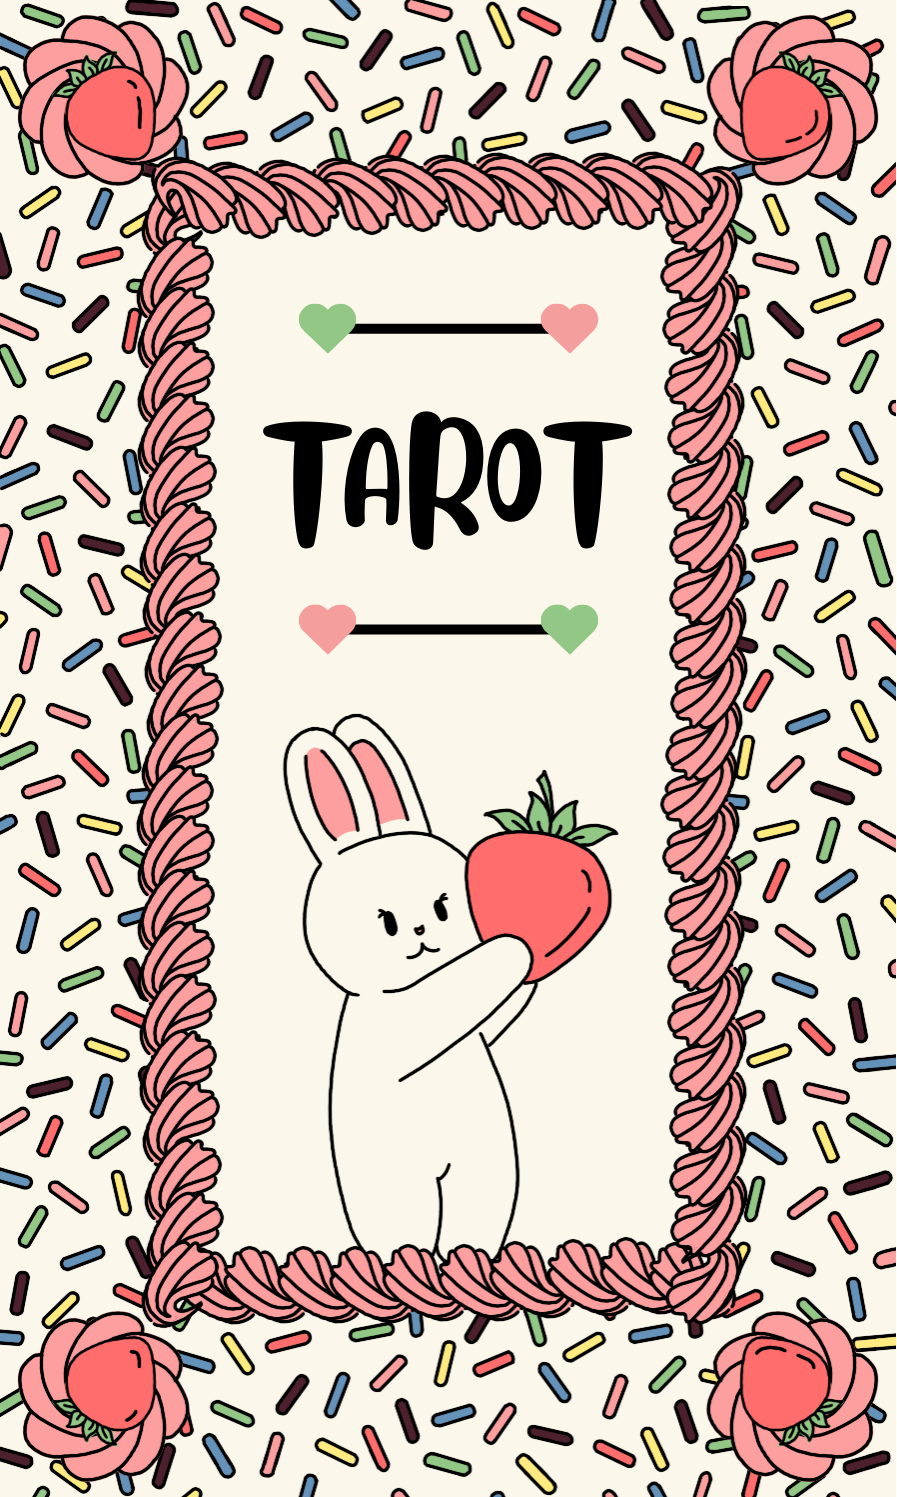
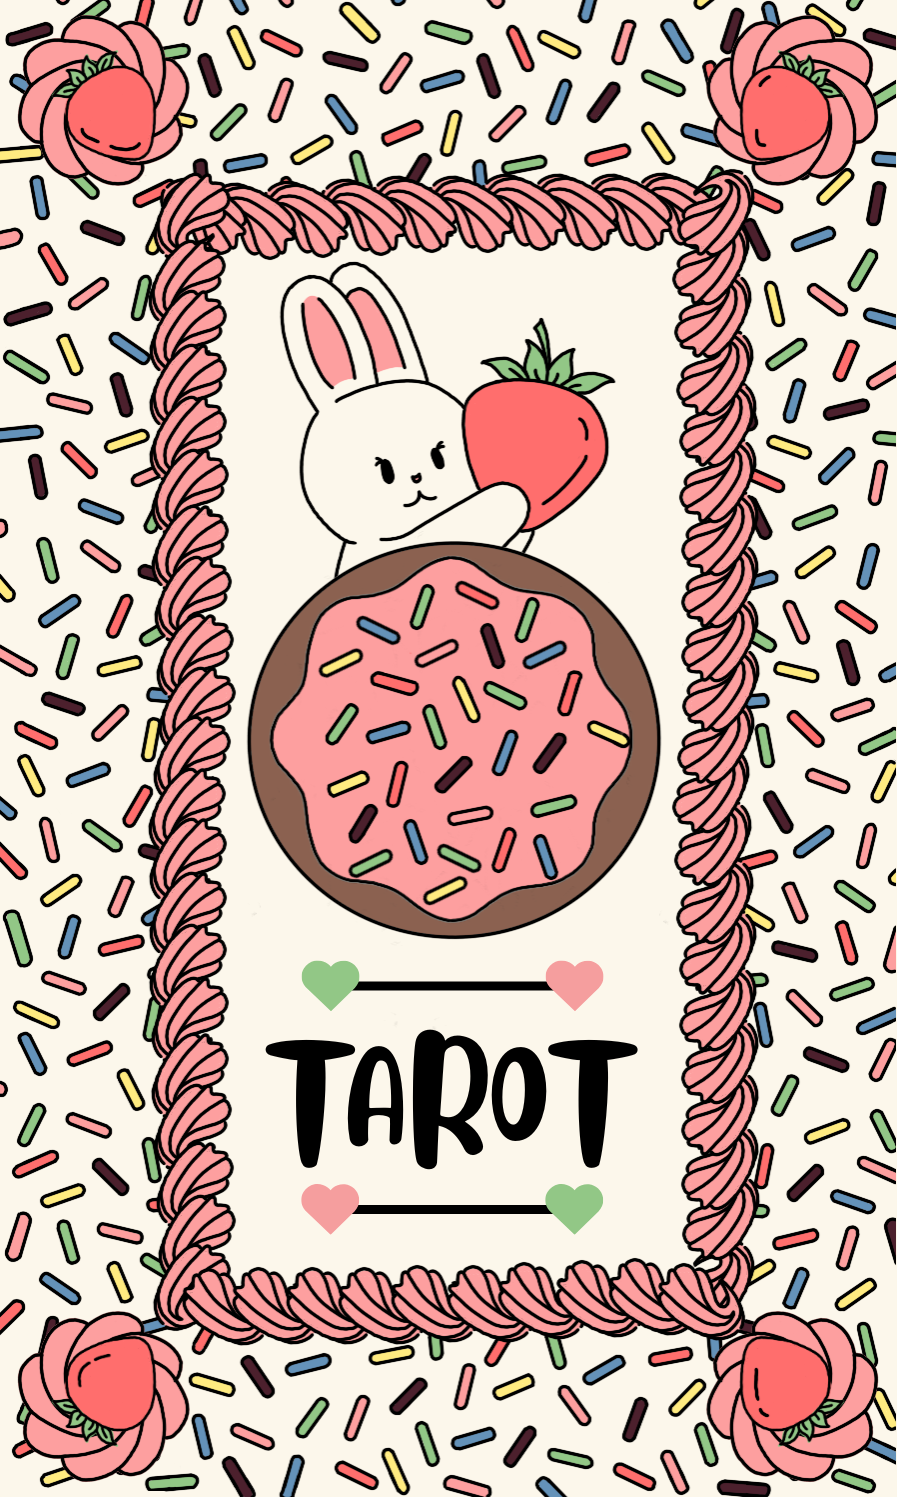
adding new card back + adding loader to physical routes

diff --git a/client/src/PhysicalCard.tsx b/client/src/PhysicalCard.tsx
@@ -7,30 +7,40 @@ import { useParams } from 'react-router-dom'
 import { FontAwesomeIcon } from '@fortawesome/react-fontawesome';
 import { faArrowUpRightFromSquare } from '@fortawesome/free-solid-svg-icons';
 import { useNavigate } from 'react-router-dom'
+import Loader from './components/Loader'
 
 function PhysicalCard() {
     const [decks, setDecks] = useState<Deck[]>([]);
     const [cards, setCards] = useState<Card[]>([]);
     const { deckName, cardNameShort } = useParams();
-    const [showModal, setShowModal] = useState(false)
+    const [showModal, setShowModal] = useState(false);
+    const [loading, setLoading] = useState(false);
     const navigate = useNavigate();
 
-
     useEffect(() => {
-        fetch('/api/decks')
-            .then(res => res.json())
-            .then((data: Deck[]) => {
-                setDecks(data);
-            })
-            .catch(err => console.error('Failed to fetch decks:', err));
-    }, []);
+        const loadData = async () => {
+            setLoading(true);
 
-    useEffect(() => {
-        fetch('/api/cards')
-        .then(res => res.json())
-        .then((data: Card[]) => setCards(data))
-        .catch(err => console.error('Failed to fetch cards:', err))
-    }, [])
+            try {
+                const [decksRes, cardsRes] = await Promise.all([
+                    fetch('/api/decks'),
+                    fetch('/api/cards')
+                ]);
+
+                const decksData: Deck[] = await decksRes.json();
+                const cardsData: Card[] = await cardsRes.json();
+
+                setDecks(decksData);
+                setCards(cardsData);
+            } catch (err) {
+                console.error('Failed to load data:', err);
+            } finally {
+                setLoading(false);
+            }
+        };
+
+        loadData();
+    }, [setLoading]);
 
     // Find the card based on the URL param
     const currentCard = cardNameShort ? cards.find(c => c.nameShort === cardNameShort) : null;
@@ -40,6 +50,9 @@ function PhysicalCard() {
 
     return (
         <>
+            {loading && (
+              <Loader/>
+            )}
             <div className='physCardOuter' style={{ backgroundColor: currentDeck?.style['main-background'], color:  currentDeck?.style['main-text']}}>
                 <h2>{currentCard?.name}</h2>
                 <div className='physImgsOuter'>
